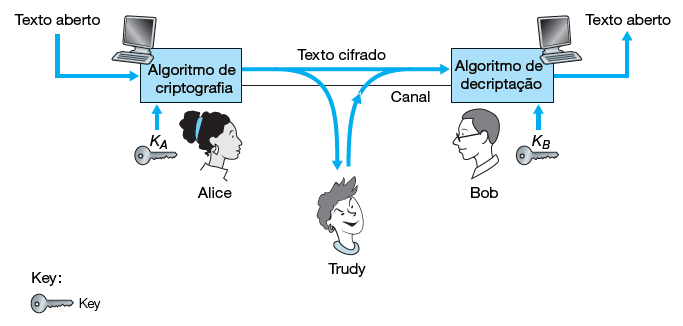
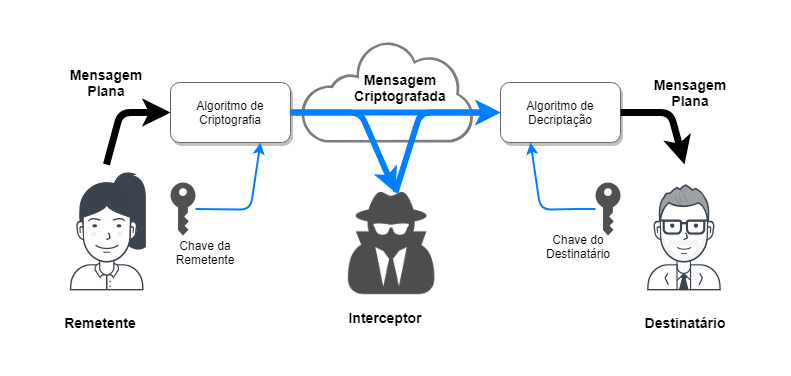
putting original images and improving page sty le

diff --git a/index.html b/index.html
@@ -2,6 +2,7 @@
 <html>
 
     <head>
+        <meta charset="UTF-8"> 
         <meta name="viewport" content="width=device-width, initial-scale=1, shrink-to-fit=no">
         <meta name="description" content="">
         <meta name="author" content="">
@@ -27,21 +28,16 @@
         </center>
     </head>
 
-    <body>
+    <body id="page-top">
         <nav class="navbar navbar-expand-lg navbar-dark bg-primary fixed-top" id="sideNav">
-                <a class="navbar-brand js-scroll-trigger" href="#page-top">
-                    <!--<span class="d-block d-lg-none">Start Bootstrap</span>-->
-                    <span class="fa-stack fa-3x">
-                        <i class="fa fa-circle-o-notch fa-inverse fa-stack-2x"></i>
-                        <!--i class="fa fa-car fa-stack-1x"></i-->
-                        <i class="fa fa-wifi fa-stack-1x"></i>
-                    </span>
+                <a href="#page-top">
+                    <img src="img/ipseclogo.png" style="width:300px;">
                 </a>
 
-                <button class="navbar-toggler" type="button" data-toggle="collapse" data-target="#navbarSupportedContent" aria-controls="navbarSupportedContent"
+                <!--button class="navbar-toggler" type="button" data-toggle="collapse" data-target="#navbarSupportedContent" aria-controls="navbarSupportedContent"
                     aria-expanded="false" aria-label="Toggle navigation">
-                    <span class="navbar-toggler-icon"></span>
-                </button>
+                    <span class="navbar-toggler-icon">IPsec</span>
+                </button-->
 
                 <div class="collapse navbar-collapse" id="navbarSupportedContent">
                     <ul class="navbar-nav">
@@ -134,19 +130,19 @@
             <p>Técnicas e algoritmos de transmissão são publicados e padronizados na Internet (p.ex as RFCs 1321, 3447, 2420).
             Independente da técnica usada, uma mensagem criptograda só pode ser descriptografada com uma <b>chave de segurança</b>.
             Esta chave (que pode ser a mesma para ambos ou exclusiva de cada um) serve de parâmetro para que o algoritmo de 
-            decriptação possa transforma a mensagem em texto cifrado em uma mensagem em texto plano. A figura 1
+            decriptação possa transformar a mensagem em texto cifrado em uma mensagem em texto plano. A figura 2.1
             ilustra os componentes básicos de um sistema de criptografia.</p>
             <figure>
                 <img src="img/criptografia.png">
-                <figcaption>Ideia geral de criptografia</figcaption>
+                <figcaption>Figura 2.1 - Esquema geral de uma comunicação criptograda que é inteceptada por um invasor (imagem adaptada de [KUROSE])</figcaption>
             </figure>
 
             <h3 id="fhash">2.2. Funções de Hash criptográficas</h3>
-            <p>Se diferem das funções hash comuns por ser uma função bijetora, ou seja, existe um único hash para a mensagem
-            escrita. Em outras palavras um invasor não consegue reproduzir o mesmo hash com uma mensagem diferente. Algoritmos 
-            de hash criptografados bem conhecidos são o MD5[RFC 1321] e o SHA-1[FIPS, 1995].</p>
-            <p>Funções hash criptografadas são usadas para atender a propriedade de integridade da mensagem em uma comunicação
-            segura.</p>
+            <p>Funções hash criptográficas são usadas para atender a propriedade de integridade da mensagem em uma comunicação
+            segura, pois garante-se que a mensagem não foi alterada no meio do caminho.</p>
+            <p>Se diferem das funções hash comuns por serem funções bijetoras, ou seja, sempre há um único hash para a mensagem
+            escrita. Em outras palavras um invasor não consegue reproduzir o mesmo hash desconhecendo a mensagem em texto plano. 
+            Algoritmos de hash criptografados bem conhecidos são o MD5[RFC 1321] e o SHA-1[FIPS, 1995].</p>
 
             <h3 id="autenticacaoMsg">2.3. Código de Autenticação de Mensagem</h3>
             <p>Nos cenários descritos, ainda é possível q o invasor crie uma mensagem qualquer, gere um hash válido e envie
@@ -158,7 +154,8 @@
             processo.</p>
             <figure>
                 <img src="img/mac.png">
-                <figcaption>...</figcaption>
+                <figcaption>Sistema de empregando o código de autenticação de mensagem para garantir
+                a integridade da mensagem (imagem adaptada de [KUROSE])</figcaption>
             </figure>
 
             <h3 id="assinatura">2.4. Assinatura Digital</h3>
@@ -183,9 +180,9 @@
             <p>Uma plataforma aberta formada por um conjunto de protocolos que são designados a prover segurança para 
             comunicações IP a nível de rede, proporcionando proteção a ataques de repetição por meio do uso de inúmeras 
             sequências. Fornece privacidade, integridade e autenticidade das informações transferidas através de redes 
-            IP para redes LANs (Local Área Networks), WANs, Públicas e Privadas. No IPsec a aplicação mais comum é a 
-            criação de redes virtuais privadas VPN (Virtual Private Network), seus serviços podem ser manuseados por 
-            quaisquer protocolos das camadas superiores como: TCP, UDP, ICMP, BGP. </p>
+            IP para LANs (Local Área Networks) e WANs (Wide Area Networks), Públicas e Privadas. No IPsec a aplicação 
+            mais comum é a criação de redes virtuais privadas VPN (Virtual Private Network), seus serviços podem ser 
+            manuseados por quaisquer protocolos das camadas superiores como: TCP, UDP, ICMP, BGP. </p>
             <p>O objetivo do IPsec é garantir a privacidade para o usuário, integridade dos dados e autenticação das 
             informações transferindo-as através de redes IP pela internet. A construção de túneis seguros sobre redes 
             de internet ou intranet é permitido no IPsec, todas as informações passadas através da rede são abreviadas 
@@ -193,8 +190,8 @@
             uma das opções mais indicadas para criação de conexões de VPN. Os protocolos IPsec foram desenvolvidos pelo 
             IETF (Internet Engineering Task Force) e são implementados tanto em IPv4 como IPv6.</p>
             <p>Quase todos os fornecedores de soluções de firewall ou software de segurança suportam o IPsec.</p>
-            <figure>
-                <img src="img/kurose-ipsec.png" align="center">
+            <figure align="center">
+                <img src="img/vpn.png">
                 <figcaption>Figura 3.1: Rede Virtual Privada (VPN). Adaptado de [KUROSE]</figcaption>
             </figure>
             <p>No IPsec a criptografia e autenticação de pacotes são realizadas na camada de rede, fornecendo uma solução 

diff --git a/css/resume.css b/css/resume.css
@@ -1,184 +1,172 @@
-@charset "UTF-8";
-
 body {
-font-family: 'Open Sans', serif;
-padding-top: 54px;
-color: #868e96;
+    font-family: 'Open Sans', serif;
+    padding-top: 54px;
+    color: #868e96;
 }
 
 @media (min-width: 992px) {
-body {
-    padding-top: 0;
-    padding-left: 24rem;
-    padding-right: 5rem;
-}
+    body {
+        padding-top: 0;
+        padding-left: 24rem;
+        padding-right: 5rem;
+    }
 }
 
-h1,
-h2,
-h3,
-h4,
-h5,
-h6 {
-font-family: 'Saira Extra Condensed', serif;
-font-weight: 700;
-/*text-transform: uppercase;*/
-color: #343a40;
+h1, h2, h3, h4, h5, h6 {
+    font-family: 'Saira Extra Condensed', serif;
+    font-weight: 700;
+    color: #343a40;
 }
 
 h1 {
-font-size: 5.5rem;
-line-height: 5.5rem;
+    font-size: 7.0rem;
+    line-height: 8.5rem;
 }
 
 h2 {
-font-size: 3.5rem;
-line-height: 3.5rem;
+    font-size: 3.5rem;
+    line-height: 3.5rem;
 }
 
 h3 {
-font-size: 2rem;
-line-height: 2rem;
+    font-size: 2rem;
+    line-height: 2rem;
 }
 
 h4 {
-font-size: 1.5rem;
-line-height: 1.5rem;
+    font-size: 1.5rem;
+    line-height: 1.5rem;
 }
-.subheading {
-text-transform: uppercase;
-font-weight: 500;
-font-family: 'Saira Extra Condensed', serif;
-font-size: 1.35rem;
-}
+/*.subheading {
+    text-transform: uppercase;
+    font-weight: 500;
+    font-family: 'Saira Extra Condensed', serif;
+    font-size: 1.35rem;
+}*/
 
-.list-social-icons a {
-color: #495057;
-}
+/*.list-social-icons a {
+    color: #495057;
+}*/
 
-.list-social-icons a:hover {
-color: #BD5D38;
-}
+/*.list-social-icons a:hover {
+    color: #BD5D38;
+}*/
 
-.list-social-icons a .fa-lg {
-font-size: 1.75rem;
-}
+/*.list-social-icons a .fa-lg {
+    font-size: 1.75rem;
+}*/
 
-.list-icons {
-font-size: 3rem;
-}
+/*.list-icons {
+    font-size: 3rem;
+}*/
 
-.list-icons .list-inline-item i:hover {
-color: #BD5D38;
-}
+/*.list-icons .list-inline-item i:hover {
+    color: #BD5D38;
+}*/
 
 #sideNav .navbar-nav .nav-item .nav-link {
-font-weight: 600;
-/*text-transform: uppercase;*/
+    font-weight: 600;
+    text-decoration: none;
+    /*text-transform: uppercase;*/
 }
 
 @media (min-width: 992px) {
-#sideNav {
-    text-align: left;
-    position: fixed;
-    top: 0;
-    left: 0;
-    display: flex;
-    flex-direction: column;
-    width: 21rem;
-    height: 100vh;
-}
-#sideNav .navbar-brand {
-    display: flex;
-    margin: auto auto 0;
-    padding: 0.5rem;
-}
-#sideNav .navbar-brand .img-profile {
-    max-width: 10rem;
-    max-height: 10rem;
-    border: 0.5rem solid rgba(255, 255, 255, 0.2);
-}
-#sideNav .navbar-collapse {
-    display: flex;
-    align-items: flex-start;
-    flex-grow: 0;
-    width: 90%;
-    margin-bottom: auto;
-}
-#sideNav .navbar-collapse .navbar-nav {
-    flex-direction: column;
-    width: 100%;
-}
-#sideNav .navbar-collapse .navbar-nav .nav-item {
-    display: block;
-    border-bottom: 1px solid #dee2e6;
-}
-#sideNav .navbar-collapse .navbar-nav .nav-item .nav-link {
-    display: block;
-}
+    #sideNav {
+        text-align: left;
+        position: fixed;
+        top: 0;
+        left: 0;
+        display: flex;
+        flex-direction: column;
+        width: 21rem;
+        height: 120vh;
+    }
+    #sideNav .navbar-brand {
+        display: flex;
+        margin: auto auto 0;
+        padding: 1.5rem;
+    }
+    #sideNav .navbar-brand .img-profile {
+        max-width: 10rem;
+        max-height: 10rem;
+        border: 0.5rem solid rgba(255, 255, 255, 0.2);
+    }
+    #sideNav .navbar-collapse {
+        display: flex;
+        align-items: flex-start;
+        flex-grow: 0;
+        width: 95%;
+        margin-bottom: auto;
+    }
+    #sideNav .navbar-collapse .navbar-nav {
+        flex-direction: column;
+        width: 90%;
+    }
+    #sideNav .navbar-collapse .navbar-nav .nav-item {
+        display: block;
+        border-bottom: none;
+    }
+    #sideNav .navbar-collapse .navbar-nav .nav-item .nav-link {
+        display: block;
+    }
 }
 
 section.resume-section {
-border-bottom: 1px solid #dee2e6;
-padding-top: 5rem !important;
-padding-bottom: 5rem !important;
+    border-bottom: 1px solid #dee2e6;
+    padding-top: 0rem !important;
+    padding-bottom: 5rem !important;
 }
 
 section.resume-section .resume-item .resume-date {
-min-width: none;
+    min-width: none;
 }
 
 @media (min-width: 768px) {
-section.resume-section {
-    min-height: 100vh;
-}
-section.resume-section .resume-item .resume-date {
-    min-width: 18rem;
-}
+    section.resume-section {
+        min-height: 100vh;
+    }
+    section.resume-section .resume-item .resume-date {
+        min-width: 18rem;
+    }
 }
 
 @media (min-width: 992px) {
-section.resume-section {
-    padding-top: 3rem !important;
-    padding-bottom: 3rem !important;
-}
+    section.resume-section {
+        padding-top: 3rem !important;
+        padding-bottom: 3rem !important;
+    }
 }
 
 .bg-primary {
-background-color: rgba(88, 10, 59, 0.822) !important;
+    background-color: rgba(0, 0, 0, 0.822) !important;
 }
 
-.text-primary {
-color: #BD5D38 !important;
-}
+/*.text-primary {
+    color: #BD5D38 !important;
+}*/
 
 a {
-color: rgb(255, 253, 253);
+    color: rgb(255, 253, 253);
 }
 
 a:hover, a:focus, a:active {
-color: #ffffff;
+    color: #b8b8b8;
 }
 
-p
-{
-text-align: justify;  
+p {
+    text-align: justify;  
 }
 
-.tabed
-{
-text-indent: 50px;
+.tabed {
+    text-indent: 50px;
 }
-
-img
-{
+img {
     display: block;
     margin-left: auto;
     margin-right: auto;
     width: 100%;
 }
 
-#references li
-{
+#references li {
     padding-bottom: 10px;
 }
